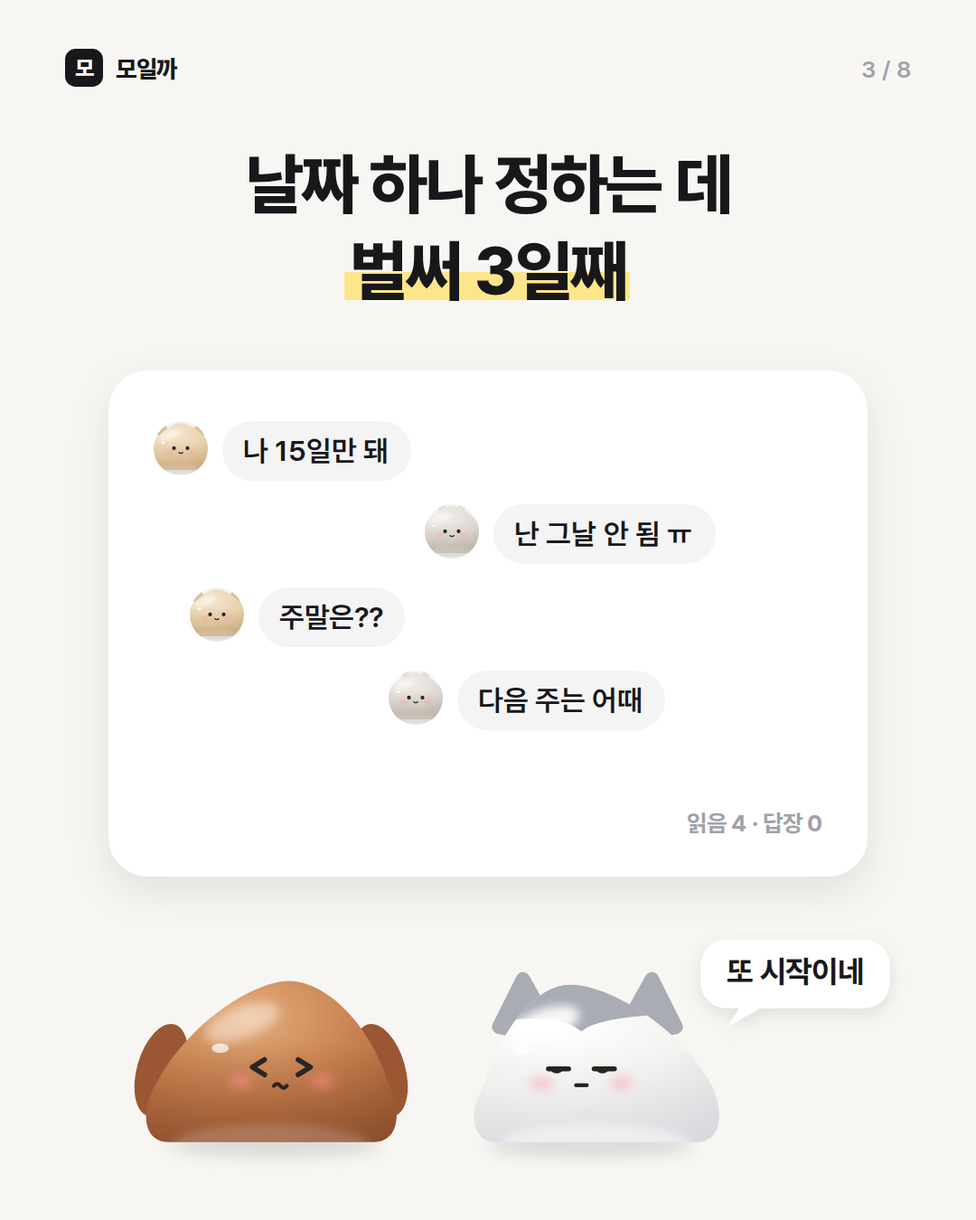
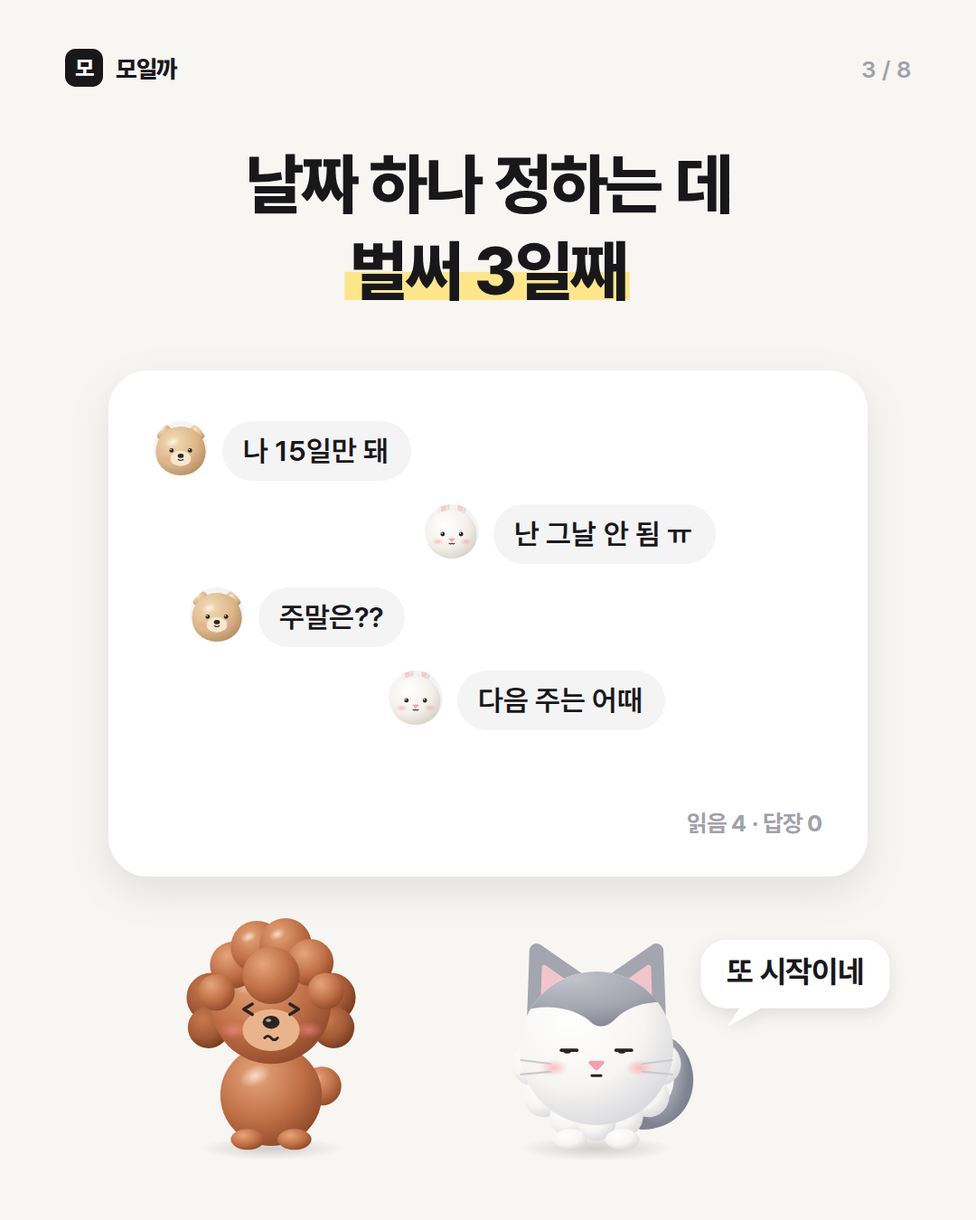
컷툰 EP.1 캐릭터 재설계 — 초코·밀크 오리지널 마스코트
레퍼런스와 겹치던 젤리 블롭 대신, 실제 초코(곱슬 방울 토이푸들)와
밀크(회색 모자 털뭉치 고양이)를 닮은 입체 봉제인형 마스코트로 교체한다.

Claude-Session: https://claude.ai/code/session_01CKkU2Ec6NKqxHL39zMMfNL

diff --git a/scripts/promo/cuttoon/chars.js b/scripts/promo/cuttoon/chars.js
@@ -1,85 +1,130 @@
-// 초코·밀크 젤리 캐릭터 — 말랑한 블롭 + 부드러운 입체 음영 + 반사광, 얼굴은 점 눈만.
-// jelly(kind, { face, w, h, lean, squash }) → 원점(0,0) = 바닥 가운데. 대략 폭 300 × 높이 200.
+// 초코·밀크 마스코트 — 우리 집 실제 아이들을 닮은 동물 캐릭터.
+//   초코: 곱슬 털방울이 모인 폼폼 토이푸들 (레드브라운)
+//   밀크: 동그란 털뭉치 고양이 (흰색 + 머리 위 회색 모자 무늬)
+// 각 방울을 입체 그라데이션 구로 칠해 말랑한 봉제인형 느낌을 낸다.
+// mascot(kind, { face, tilt, pose }) → 원점(0,0) = 바닥 가운데. 높이 약 320.
+// kind: choco | milk | kong(곰) | dubu(토끼)
 (function () {
-  let UID = 0;
-  const PAL = {
-    choco: { top: '#e6ad7c', mid: '#c27a4a', deep: '#8a4d2b', ear: '#9b5733', blush: '#ff8f8f' },
-    oat: { top: '#f5e7cf', mid: '#e6cfa9', deep: '#c3a175', ear: '#d9bd93', blush: '#ff9f9f' },
-    almond: { top: '#f1eeea', mid: '#dcd7cf', deep: '#b2aa9e', ear: '#e4dfd7', blush: '#ffa3a3' },
-    milk: { top: '#ffffff', mid: '#f4f3f1', deep: '#d9d8dd', cap: '#a9abb5', capDeep: '#8c8e99', ear: '#a9abb5', blush: '#ffa3b1' },
-  };
   const INK = '#2b2522';
-
-  // 비대칭 젤리 실루엣 (바닥은 살짝 둥글게)
-  function blobPath(w, h, lean) {
-    const px = lean * w * 0.24;
-    return `M${-w * 0.42} 2 C${-w * 0.53} 2 ${-w * 0.535} ${-h * 0.2} ${-w * 0.47} ${-h * 0.36} ` +
-      `C${-w * 0.36 + px * 0.3} ${-h * 0.74} ${-w * 0.14 + px} ${-h} ${px} ${-h} ` +
-      `C${w * 0.15 + px} ${-h} ${w * 0.38 + px * 0.3} ${-h * 0.74} ${w * 0.48} ${-h * 0.36} ` +
-      `C${w * 0.535} ${-h * 0.2} ${w * 0.53} 2 ${w * 0.42} 2Z`;
+  const PAL = {
+    choco: { hi: '#e7a57a', mid: '#bf6f45', lo: '#8a4527', ear: ['#c77a50', '#a35a36', '#6f3519'], muzzle: '#e9b48c' },
+    milk: { hi: '#ffffff', mid: '#f6f5f2', lo: '#d6d5da', cap: ['#c2c4cc', '#a3a5af', '#7f8290'] },
+    kong: { hi: '#f4dcb6', mid: '#dcb88a', lo: '#b08a5c', muzzle: '#f6e7cf' },
+    dubu: { hi: '#ffffff', mid: '#f4f1ec', lo: '#d3cdc4', inner: '#f8c9cf' },
+  };
+  // 공용 그라데이션 (objectBoundingBox 라서 어떤 원에도 재사용)
+  let defsDone = false;
+  function defs() {
+    if (defsDone) return '';
+    defsDone = true;
+    const rg = (id, [hi, mid, lo]) => `<radialGradient id="${id}" cx=".36" cy=".3" r=".78"><stop offset="0" stop-color="${hi}"/><stop offset=".58" stop-color="${mid}"/><stop offset="1" stop-color="${lo}"/></radialGradient>`;
+    return `<defs>
+      ${rg('gChoco', [PAL.choco.hi, PAL.choco.mid, PAL.choco.lo])}
+      ${rg('gChocoEar', PAL.choco.ear)}
+      ${rg('gMilk', [PAL.milk.hi, PAL.milk.mid, PAL.milk.lo])}
+      ${rg('gMilkCap', PAL.milk.cap)}
+      ${rg('gKong', [PAL.kong.hi, PAL.kong.mid, PAL.kong.lo])}
+      ${rg('gDubu', [PAL.dubu.hi, PAL.dubu.mid, PAL.dubu.lo])}
+      <radialGradient id="gGloss" cx=".5" cy=".5" r=".5"><stop offset="0" stop-color="#fff" stop-opacity=".6"/><stop offset="1" stop-color="#fff" stop-opacity="0"/></radialGradient>
+      <radialGradient id="gShadow" cx=".5" cy=".5" r=".5"><stop offset="0" stop-color="#000" stop-opacity=".16"/><stop offset="1" stop-color="#000" stop-opacity="0"/></radialGradient>
+      <radialGradient id="gBlush" cx=".5" cy=".5" r=".5"><stop offset="0" stop-color="#ff8f9c" stop-opacity=".55"/><stop offset="1" stop-color="#ff8f9c" stop-opacity="0"/></radialGradient>
+    </defs>`;
   }
+  window.mascotDefs = () => { defsDone = false; return defs(); };
 
-  function face(type, cx, cy, s) {
-    const e = 25 * s, k = INK, sw = 5.5 * s;
-    const eye = (x, sd) => {
+  const ball = (x, y, r, g, gloss = true) =>
+    `<circle cx="${x}" cy="${y}" r="${r}" fill="url(#${g})"/>` + (gloss ? `<ellipse cx="${x - r * 0.32}" cy="${y - r * 0.38}" rx="${r * 0.32}" ry="${r * 0.2}" transform="rotate(-25 ${x - r * 0.32} ${y - r * 0.38})" fill="url(#gGloss)"/>` : '');
+  const oval = (x, y, rx, ry, rot, g) => `<ellipse cx="${x}" cy="${y}" rx="${rx}" ry="${ry}" transform="rotate(${rot} ${x} ${y})" fill="url(#${g})"/>`;
+  const shadow = (rx) => `<ellipse cx="0" cy="4" rx="${rx}" ry="${rx * 0.16}" fill="url(#gShadow)"/>`;
+  const blush = (x, y) => `<ellipse cx="${x}" cy="${y}" rx="22" ry="13" fill="url(#gBlush)"/>`;
+
+  function eyes(type, ex, ey) {
+    const k = INK;
+    const one = (x, sd) => {
       switch (type) {
-        case 'happy': return `<path d="M${x - 11 * s} ${cy + 3 * s} Q${x} ${cy - 10 * s} ${x + 11 * s} ${cy + 3 * s}" fill="none" stroke="${k}" stroke-width="${sw}" stroke-linecap="round"/>`;
-        case 'sleepy': return `<path d="M${x - 11 * s} ${cy - 2 * s} Q${x} ${cy + 8 * s} ${x + 11 * s} ${cy - 2 * s}" fill="none" stroke="${k}" stroke-width="${sw}" stroke-linecap="round"/>`;
-        case 'flat': return `<path d="M${x - 10 * s} ${cy} H${x + 10 * s}" stroke="${k}" stroke-width="${sw}" stroke-linecap="round"/>`;
-        case 'squint': return `<path d="M${x - 7 * sd * s} ${cy - 8 * s} L${x + 6 * sd * s} ${cy} L${x - 7 * sd * s} ${cy + 8 * s}" fill="none" stroke="${k}" stroke-width="${sw}" stroke-linecap="round" stroke-linejoin="round"/>`;
-        case 'side': return `<path d="M${x - 11 * s} ${cy} H${x + 11 * s}" stroke="${k}" stroke-width="${sw}" stroke-linecap="round"/><path d="M${x - 9 * s} ${cy + 1} A${8 * s} ${8 * s} 0 0 0 ${x + 5 * s} ${cy + 1}Z" fill="${k}"/>`;
-        case 'wow': return `<circle cx="${x}" cy="${cy}" r="${8.5 * s}" fill="${k}"/><circle cx="${x - 3 * s}" cy="${cy - 3.5 * s}" r="${3 * s}" fill="#fff"/>`;
-        default: return `<circle cx="${x}" cy="${cy}" r="${7 * s}" fill="${k}"/>`;
+        case 'happy': return `<path d="M${x - 11} ${ey + 4} Q${x} ${ey - 10} ${x + 11} ${ey + 4}" fill="none" stroke="${k}" stroke-width="5.5" stroke-linecap="round"/>`;
+        case 'sleepy': return `<path d="M${x - 11} ${ey - 2} Q${x} ${ey + 8} ${x + 11} ${ey - 2}" fill="none" stroke="${k}" stroke-width="5" stroke-linecap="round"/>`;
+        case 'flat': return `<path d="M${x - 10} ${ey} H${x + 10}" stroke="${k}" stroke-width="5.5" stroke-linecap="round"/>`;
+        case 'squint': return `<path d="M${x - 7 * sd} ${ey - 8} L${x + 6 * sd} ${ey} L${x - 7 * sd} ${ey + 8}" fill="none" stroke="${k}" stroke-width="5" stroke-linecap="round" stroke-linejoin="round"/>`;
+        case 'side': return `<path d="M${x - 12} ${ey - 1} H${x + 12}" stroke="${k}" stroke-width="5" stroke-linecap="round"/><path d="M${x - 10} ${ey} A8 8 0 0 0 ${x + 4} ${ey}Z" fill="${k}"/>`;
+        case 'wow': return `<circle cx="${x}" cy="${ey}" r="9.5" fill="${k}"/><circle cx="${x - 3}" cy="${ey - 4}" r="3.4" fill="#fff"/>`;
+        default: return `<circle cx="${x}" cy="${ey}" r="8" fill="${k}"/><circle cx="${x - 2.5}" cy="${ey - 3}" r="2.6" fill="#fff"/>`;
       }
     };
-    let m = '';
-    if (type === 'happy' || type === 'wow') m = `<path d="M${cx - 9 * s} ${cy + 16 * s} Q${cx} ${cy + 26 * s} ${cx + 9 * s} ${cy + 16 * s}" fill="none" stroke="${k}" stroke-width="${4.5 * s}" stroke-linecap="round"/>`;
-    else if (type === 'squint') m = `<path d="M${cx - 8 * s} ${cy + 20 * s} q4 -5 8 0 t8 0" fill="none" stroke="${k}" stroke-width="${4 * s}" stroke-linecap="round"/>`;
-    else if (type === 'side' || type === 'flat') m = `<path d="M${cx - 6 * s} ${cy + 18 * s} H${cx + 6 * s}" stroke="${k}" stroke-width="${4 * s}" stroke-linecap="round"/>`;
-    else m = `<path d="M${cx - 7 * s} ${cy + 16 * s} Q${cx} ${cy + 22 * s} ${cx + 7 * s} ${cy + 16 * s}" fill="none" stroke="${k}" stroke-width="${4.5 * s}" stroke-linecap="round"/>`;
-    return eye(cx - e, -1) + eye(cx + e, 1) + m;
+    return one(-ex, -1) + one(ex, 1);
   }
 
-  function jelly(kind, o = {}) {
-    const p = PAL[kind], id = 'j' + (UID++);
-    const w = o.w ?? 300, h = o.h ?? 196, lean = o.lean ?? 0, sq = o.squash ?? 1;
-    const W = w * (2 - sq), Hh = h * sq;
-    const d = blobPath(W, Hh, lean);
-    const fx = lean * W * 0.14, fy = -Hh * 0.46; // 얼굴 위치
-    let s = `<defs>
-      <radialGradient id="${id}b" cx="${0.38 + lean * 0.08}" cy="0.22" r="0.95"><stop offset="0" stop-color="${p.top}"/><stop offset="0.55" stop-color="${p.mid}"/><stop offset="1" stop-color="${p.deep}"/></radialGradient>
-      <radialGradient id="${id}r" cx="0.5" cy="1.05" r="0.7"><stop offset="0" stop-color="${p.deep}" stop-opacity=".55"/><stop offset="1" stop-color="${p.deep}" stop-opacity="0"/></radialGradient>
-      <filter id="${id}f" x="-50%" y="-50%" width="200%" height="200%"><feGaussianBlur stdDeviation="${6}"/></filter>
-      <filter id="${id}s" x="-50%" y="-50%" width="200%" height="200%"><feGaussianBlur stdDeviation="10"/></filter>
-      <clipPath id="${id}c"><path d="${d}"/></clipPath>
-    </defs>`;
-    // 바닥 그림자
-    s += `<ellipse cx="${fx * 0.4}" cy="6" rx="${W * 0.44}" ry="14" fill="#000" opacity=".12" filter="url(#${id}s)"/>`;
-    // 귀 (몸 뒤)
-    if (kind === 'choco') {
-      for (const sd of [-1, 1]) { const ex = sd * W * 0.45, ey = -Hh * 0.44; s += `<ellipse cx="${ex}" cy="${ey}" rx="${W * 0.1}" ry="${Hh * 0.3}" transform="rotate(${sd * -16} ${ex} ${ey})" fill="${p.ear}"/>`; }
-    } else if (kind === 'milk') {
-      for (const sd of [-1, 1]) { const ex = fx * 0.6 + sd * W * 0.25, ey = -Hh * 0.8; s += `<path d="M${ex - sd * 34} ${ey + 26} L${ex + sd * 6} ${ey - 46} L${ex + sd * 36} ${ey + 14}Z" fill="${p.ear}" stroke="${p.ear}" stroke-width="18" stroke-linejoin="round"/>`; }
-    } else if (kind === 'oat') {
-      for (const sd of [-1, 1]) s += `<circle cx="${fx * 0.6 + sd * W * 0.27}" cy="${-Hh * 0.84}" r="${W * 0.085}" fill="${p.ear}"/>`;
-    } else if (kind === 'almond') {
-      for (const sd of [-1, 1]) { const ex = fx * 0.6 + sd * W * 0.12; s += `<rect x="${ex - W * 0.05}" y="${-Hh * 1.42}" width="${W * 0.1}" height="${Hh * 0.7}" rx="${W * 0.05}" fill="${p.ear}" transform="rotate(${sd * 10} ${ex} ${-Hh * 0.8})"/>`; }
-    }
-    // 몸
-    s += `<path d="${d}" fill="url(#${id}b)"/>`;
-    s += `<g clip-path="url(#${id}c)">`;
-    if (kind === 'milk') s += `<path d="M${-W} ${-Hh - 40} H${W} V${-Hh * 0.8} C${W * 0.25} ${-Hh * 0.84} ${fx + W * 0.08} ${-Hh * 0.8} ${fx} ${-Hh * 0.7} C${fx - W * 0.1} ${-Hh * 0.82} ${-W * 0.3} ${-Hh * 0.82} ${-W} ${-Hh * 0.62}Z" fill="${p.cap}"/>`;
+  // 작은 발 (몸 앞)
+  const feet = (g, dx = 34) => oval(-dx, -10, 26, 16, 0, g) + oval(dx, -10, 26, 16, 0, g);
 
-    s += `<rect x="${-W}" y="${-Hh}" width="${W * 2}" height="${Hh + 10}" fill="url(#${id}r)"/>`;
-    s += `<ellipse cx="0" cy="4" rx="${W * 0.4}" ry="${Hh * 0.12}" fill="#fff" opacity="${kind === 'milk' ? 0.5 : 0.18}" filter="url(#${id}f)"/>`;
-    s += `<ellipse cx="${fx - W * 0.16}" cy="${-Hh * 0.74}" rx="${W * 0.16}" ry="${Hh * 0.1}" transform="rotate(-20 ${fx - W * 0.16} ${-Hh * 0.74})" fill="#fff" opacity="${kind === 'milk' ? 0.9 : 0.42}" filter="url(#${id}f)"/>`;
-    s += `<ellipse cx="${fx - W * 0.25}" cy="${-Hh * 0.58}" rx="${W * 0.035}" ry="${Hh * 0.03}" fill="#fff" opacity=".7"/>`;
-    s += `</g>`;
-    // 볼터치 + 얼굴
-    s += `<ellipse cx="${fx - 50}" cy="${fy + 18}" rx="15" ry="9" fill="${p.blush}" opacity=".5" filter="url(#${id}f)"/><ellipse cx="${fx + 50}" cy="${fy + 18}" rx="15" ry="9" fill="${p.blush}" opacity=".5" filter="url(#${id}f)"/>`;
-    s += face(o.face ?? 'dot', fx, fy, o.faceScale ?? 1.15);
-    if (kind === 'choco' && o.tongue) s += `<rect x="${fx - 6}" y="${fy + 22}" width="12" height="16" rx="6" fill="#ef8a9b"/>`;
+  // ---------------- 초코 ----------------
+  function choco(o = {}) {
+    const f = o.face ?? 'dot';
+    let s = shadow(110);
+    s += ball(78, -92, 30, 'gChoco');                         // 꼬리 방울
+    s += ball(0, -78, 78, 'gChoco');                          // 몸
+    s += feet('gChoco', 36);
+    let h = '';
+    // 귀 — 늘어진 곱슬 방울 2단
+    for (const sd of [-1, 1]) h += ball(sd * 92, -10, 38, 'gChocoEar', false) + ball(sd * 96, 36, 32, 'gChocoEar', false);
+    // 머리 + 곱슬 톱노트(방울 묶음)
+    h += ball(0, 0, 92, 'gChoco');
+    [[-58, -60, 36], [-22, -88, 40], [22, -92, 40], [60, -64, 36], [-84, -18, 28], [84, -20, 28]].forEach(([x, y, r], i) => { h += ball(x, y, r, 'gChoco', i === 1 || i === 2); });
+    h += ball(0, -44, 44, 'gChoco', false);
+    // 얼굴
+    h += `<ellipse cx="0" cy="40" rx="44" ry="32" fill="${PAL.choco.muzzle}"/>`;
+    h += blush(-58, 40) + blush(58, 40);
+    h += eyes(f, 36, 8);
+    h += `<ellipse cx="0" cy="28" rx="13" ry="10" fill="${INK}"/><ellipse cx="-4" cy="25" rx="4" ry="2.5" fill="#fff" opacity=".6"/>`;
+    if (f === 'squint') h += `<path d="M-10 52 q5 -6 10 0 t10 0" fill="none" stroke="${INK}" stroke-width="4" stroke-linecap="round"/>`;
+    else if (f === 'flat' || f === 'side') h += `<path d="M-7 50 H7" stroke="${INK}" stroke-width="4" stroke-linecap="round"/>`;
+    else h += `<path d="M-12 46 Q-6 52 0 46 Q6 52 12 46" fill="none" stroke="${INK}" stroke-width="4" stroke-linecap="round"/>` + (o.tongue !== false ? `<rect x="-7" y="49" width="14" height="18" rx="7" fill="#ef8a9b"/>` : '');
+    s += `<g transform="translate(0 -218)${o.tilt ? ` rotate(${o.tilt})` : ''}">${h}</g>`;
+    if (o.pose === 'cheer') s += ball(-104, -226, 26, 'gChoco') + ball(104, -226, 26, 'gChoco');
     return s;
   }
-  window.jelly = jelly;
+
+  // ---------------- 밀크 ----------------
+  function milk(o = {}) {
+    const f = o.face ?? 'side';
+    let s = shadow(118);
+    s += `<path d="M70 -40 C140 -40 150 -120 112 -150" fill="none" stroke="url(#gMilkCap)" stroke-width="30" stroke-linecap="round"/>`;
+    let h = '';
+    for (const sd of [-1, 1]) h += `<path d="M${sd * 96} -40 L${sd * 92} -150 L${sd * 26} -104Z" fill="url(#gMilkCap)" stroke="${PAL.milk.cap[1]}" stroke-width="22" stroke-linejoin="round"/><path d="M${sd * 82} -60 L${sd * 80} -124 L${sd * 46} -100Z" fill="#f2c5cd" stroke="#f2c5cd" stroke-width="8" stroke-linejoin="round"/>`;
+    // 털뭉치 몸통 = 큰 공 + 가장자리 보송한 방울
+    [[-96, 24, 34], [96, 24, 34], [-80, 74, 32], [80, 74, 32], [-40, 104, 32], [40, 104, 32], [0, 112, 30]].forEach(([x, y, r]) => { h += ball(x, y, r, 'gMilk', false); });
+    h += ball(0, 0, 118, 'gMilk');
+    // 회색 모자 무늬 (머리 위)
+    const id = 'mcap' + Math.random().toString(36).slice(2, 7);
+    h += `<clipPath id="${id}"><circle cx="0" cy="0" r="118"/></clipPath><path clip-path="url(#${id})" d="M-140 -140 H140 V-64 C96 -78 54 -70 30 -46 C18 -34 6 -30 -6 -38 C-34 -66 -96 -74 -140 -44Z" fill="url(#gMilkCap)"/>`;
+    h += blush(-66, 30) + blush(66, 30);
+    h += eyes(f, 42, 4);
+    h += `<path d="M-9 22 H9 L0 31Z" fill="#f29fb0" stroke="#f29fb0" stroke-width="6" stroke-linejoin="round"/>`;
+    if (f === 'side' || f === 'flat') h += `<path d="M-7 42 H7" stroke="${INK}" stroke-width="4" stroke-linecap="round"/>`;
+    else h += `<path d="M-13 38 Q-6 45 0 38 Q6 45 13 38" fill="none" stroke="${INK}" stroke-width="4" stroke-linecap="round"/>`;
+    for (const sd of [-1, 1]) h += `<path d="M${sd * 70} 24 l${sd * 46} -6 M${sd * 70} 36 l${sd * 46} 4" stroke="#c9c9cf" stroke-width="3" stroke-linecap="round"/>`;
+    s += `<g transform="translate(0 -150)${o.tilt ? ` rotate(${o.tilt})` : ''}">${h}</g>`;
+    s += feet('gMilk', 40);
+    if (o.pose === 'cheer') s += ball(-120, -200, 26, 'gMilk') + ball(120, -200, 26, 'gMilk');
+    return s;
+  }
+
+  // ---------------- 친구들 (아바타·조연) ----------------
+  function kong(o = {}) { // 곰
+    let h = ball(-62, -70, 30, 'gKong') + ball(62, -70, 30, 'gKong') + ball(0, 0, 92, 'gKong');
+    h += `<ellipse cx="0" cy="26" rx="38" ry="28" fill="${PAL.kong.muzzle}"/>` + blush(-52, 26) + blush(52, 26) + eyes(o.face ?? 'dot', 34, -4);
+    h += `<ellipse cx="0" cy="16" rx="11" ry="8" fill="${INK}"/><path d="M-9 30 Q0 36 9 30" fill="none" stroke="${INK}" stroke-width="4" stroke-linecap="round"/>`;
+    return shadow(90) + `<g transform="translate(0 -96)">${h}</g>`;
+  }
+  function dubu(o = {}) { // 토끼
+    let h = '';
+    for (const sd of [-1, 1]) h += oval(sd * 34, -120, 24, 62, sd * 8, 'gDubu') + `<ellipse cx="${sd * 34}" cy="-116" rx="11" ry="40" transform="rotate(${sd * 8} ${sd * 34} -116)" fill="${PAL.dubu.inner}"/>`;
+    h += ball(0, 0, 92, 'gDubu') + blush(-52, 26) + blush(52, 26) + eyes(o.face ?? 'dot', 34, -2);
+    h += `<path d="M-8 16 H8 L0 24Z" fill="#f29fb0" stroke="#f29fb0" stroke-width="5" stroke-linejoin="round"/><path d="M-10 32 Q-5 37 0 32 Q5 37 10 32" fill="none" stroke="${INK}" stroke-width="3.5" stroke-linecap="round"/>`;
+    return shadow(90) + `<g transform="translate(0 -96)">${h}</g>`;
+  }
+
+  window.mascot = (kind, o = {}) => defs() + ({ choco, milk, kong, dubu })[kind](o);
+  // 아바타용: 얼굴 중심이 대략 (0, -Y) 에 오도록 하는 오프셋
+  window.mascotFaceY = { choco: -230, milk: -150, kong: -96, dubu: -96 };
 })();

diff --git a/scripts/promo/cuttoon/cuttoon.html b/scripts/promo/cuttoon/cuttoon.html
@@ -67,17 +67,17 @@ function pill(y, str) {
   return `<rect x="${W / 2 - w / 2}" y="${y}" width="${w}" height="64" rx="32" fill="${C.ink}"/>` + T(W / 2, y + 43, str, { size: 30, weight: 800, fill: C.a300, anchor: 'middle' });
 }
 function chrome(n) {
-  return `<rect width="${W}" height="${H}" fill="${C.bg}"/>` + DEFS + mark(M, 54, 42) + T(M + 56, 86, '모일까', { size: 27, weight: 800 }) +
+  return `<rect width="${W}" height="${H}" fill="${C.bg}"/>` + DEFS + mascotDefs() + mark(M, 54, 42) + T(M + 56, 86, '모일까', { size: 27, weight: 800 }) +
     T(W - M, 86, `${n} / 8`, { size: 26, weight: 600, fill: C.z400, anchor: 'end', ls: 0.5 });
 }
 const card = (x, y, w, h, inner = '') => `<rect x="${x}" y="${y}" width="${w}" height="${h}" rx="44" fill="${C.white}" filter="url(#sh)"/>` + inner;
 
 // ---------- 젤리 아바타 / 채팅 ----------
-const WHO = { choco: ['choco', '초코'], milk: ['milk', '밀크'], kong: ['oat', '콩이'], dubu: ['almond', '두부'] };
+const WHO = { choco: ['choco', '초코'], milk: ['milk', '밀크'], kong: ['kong', '콩이'], dubu: ['dubu', '두부'] };
 function avatar(who, cx, cy, r, face = 'dot') {
   const id = 'av' + Math.random().toString(36).slice(2, 8);
   return `<clipPath id="${id}"><circle cx="${cx}" cy="${cy}" r="${r}"/></clipPath><circle cx="${cx}" cy="${cy}" r="${r}" fill="${C.z100}"/>` +
-    `<g clip-path="url(#${id})">${place(cx, cy + r * 0.78, r / 115, jelly(WHO[who][0], { face }))}</g>`;
+    `<g clip-path="url(#${id})">${place(cx, cy - mascotFaceY[who] * (r / 100) + r * 0.12, r / 100, mascot(WHO[who][0], { face }))}</g>`;
 }
 function msgL(x, y, who, text, { size = 32, name = true, fill = C.z100 } = {}) {
   const r = 30, bx = x + r * 2 + 16;
@@ -107,8 +107,8 @@ S.push(() => {
   s += sub(500, '단톡방에서 날짜 맞추다 지친 우리 얘기');
   // 바닥 무대
   s += `<ellipse cx="${W / 2}" cy="1170" rx="480" ry="84" fill="#efece6"/>`;
-  s += place(318, 1160, 1.42, jelly('choco', { face: 'dot', lean: 0.45, tongue: true }));
-  s += place(775, 1170, 1.32, jelly('milk', { face: 'side', lean: -0.5 }));
+  s += place(318, 1160, 0.966, mascot('choco', { face: 'dot', tongue: true }));
+  s += place(775, 1170, 0.898, mascot('milk', { face: 'side' }));
   s += say(300, 650, ['언제 볼래?'], 'dr') + say(800, 680, ['다음에 보자~'], 'dl');
   s += T(W / 2, 1290, '옆으로 넘겨 보기 →', { size: 28, weight: 600, fill: C.z400, anchor: 'middle' });
   return s;
@@ -127,7 +127,7 @@ S.push(() => {
   in_ += sysPill(x + w / 2, yy, '3주 후');
   in_ += T(x + w / 2, yy + 140, '· · ·', { size: 44, weight: 800, fill: C.z300, anchor: 'middle', ls: 6 });
   s += card(x, y, w, h, in_);
-  s += place(800, 1262, 0.9, jelly('choco', { face: 'flat', lean: -0.4 }));
+  s += place(800, 1268, 0.72, mascot('choco', { face: 'flat' }));
   s += say(560, 1110, ['…?'], 'dr');
   return s;
 });
@@ -141,8 +141,8 @@ S.push(() => {
   [['kong', '나 15일만 돼', 0], ['dubu', '난 그날 안 됨 ㅠ', 300], ['kong', '주말은??', 40], ['dubu', '다음 주는 어때', 260]].forEach(([who, t, dx]) => { const r = msgL(x + 50 + dx, yy, who, t, { name: false }); in_ += r.svg; yy += r.h + 26; });
   in_ += T(x + w - 50, y + h - 50, '읽음 4 · 답장 0', { size: 26, weight: 700, fill: C.z400, anchor: 'end' });
   s += card(x, y, w, h, in_);
-  s += place(300, 1262, 0.9, jelly('choco', { face: 'squint', lean: 0.3 }));
-  s += place(660, 1262, 0.88, jelly('milk', { face: 'side', lean: -0.45 }));
+  s += place(300, 1268, 0.72, mascot('choco', { face: 'squint' }));
+  s += place(660, 1268, 0.72, mascot('milk', { face: 'side' }));
   s += say(880, 1040, ['또 시작이네'], 'dl');
   return s;
 });
@@ -156,9 +156,9 @@ S.push(() => {
   const mw = 120, gap = 26, tx = tw('모일까', 96, 800), tot = mw + gap + tx, x0 = W / 2 - tot / 2;
   s += card(150, 590, 780, 260, mark(x0, 660, mw) + T(x0 + mw + gap, 660 + mw * 0.79, '모일까', { size: 96, weight: 800, ls: -2 }));
   s += `<ellipse cx="${W / 2}" cy="1180" rx="420" ry="70" fill="#efece6"/>`;
-  s += place(350, 1170, 1.08, jelly('choco', { face: 'happy', lean: 0.4, tongue: true }));
-  s += place(750, 1176, 1.0, jelly('milk', { face: 'wow', lean: -0.4 }));
-  s += say(250, 930, ['이거다!'], 'dr');
+  s += place(360, 1172, 0.86, mascot('choco', { face: 'happy', tongue: true }));
+  s += place(740, 1178, 0.84, mascot('milk', { face: 'wow' }));
+  s += say(170, 880, ['이거다!'], 'dr');
   return s;
 });
 
@@ -180,7 +180,7 @@ S.push(() => {
     in_ += T(cx, cy, String(d), { size: 27, weight: sel.has(d) ? 800 : 600, fill: sel.has(d) ? C.white : C.z700, anchor: 'middle', ls: 0 });
   }
   s += card(x, y, w, h, in_);
-  s += place(830, 1270, 0.8, jelly('choco', { face: 'happy', lean: -0.5, tongue: true }));
+  s += place(830, 1270, 0.544, mascot('choco', { face: 'happy', tongue: true }));
   s += say(520, 1150, ['닉네임만 쓰면 끝!'], 'dr');
   return s;
 });
@@ -202,7 +202,7 @@ S.push(() => {
   let r = msgL(x + 44, yy, 'kong', '오 편하다'); in_ += r.svg; yy += r.h + 22;
   r = msgL(x + 44, yy, 'dubu', '체크 완료!'); in_ += r.svg;
   s += card(x, y, w, h, in_);
-  s += place(830, 1270, 0.78, jelly('milk', { face: 'side', lean: -0.5 }));
+  s += place(830, 1270, 0.53, mascot('milk', { face: 'side' }));
   s += say(520, 1150, ['(몰래) 나도 체크함'], 'dr', { size: 30 });
   return s;
 });
@@ -226,7 +226,7 @@ S.push(() => {
     in_ += `<rect x="${x0}" y="${ry + 66}" width="${x1 - x0}" height="16" rx="8" fill="${C.z100}"/><rect x="${x0}" y="${ry + 66}" width="${(x1 - x0) * n / 4}" height="16" rx="8" fill="${first ? C.a300 : C.z300}"/>`;
   });
   s += card(x, y, w, h, in_);
-  s += place(250, 1270, 0.78, jelly('milk', { face: 'side', lean: 0.5 }));
+  s += place(250, 1270, 0.53, mascot('milk', { face: 'side' }));
   s += say(560, 1150, ['…좋아. 그날 간다.'], 'dl', { size: 30 });
   return s;
 });
@@ -238,10 +238,10 @@ S.push(() => {
   s += headline(['링크 하나로', '[1분 컷]'], 340);
   s += sub(500, '가입 없음 · 닉네임만 · 무료');
   s += `<ellipse cx="${W / 2}" cy="1010" rx="470" ry="80" fill="#efece6"/>`;
-  s += place(170, 990, 0.62, jelly('oat', { face: 'happy', lean: 0.3 }));
-  s += place(400, 1004, 0.96, jelly('choco', { face: 'happy', lean: 0.35, tongue: true }));
-  s += place(700, 1008, 0.92, jelly('milk', { face: 'happy', lean: -0.35 }));
-  s += place(920, 992, 0.6, jelly('almond', { face: 'wow', lean: -0.3 }));
+  s += place(175, 996, 0.56, mascot('kong', { face: 'happy' }));
+  s += place(400, 1004, 0.68, mascot('choco', { face: 'happy', tongue: true, pose: 'cheer' }));
+  s += place(690, 1008, 0.66, mascot('milk', { face: 'happy', pose: 'cheer' }));
+  s += place(915, 996, 0.56, mascot('dubu', { face: 'wow' }));
   s += say(W / 2, 640, ['드디어 만났다!'], 'down', { size: 38 });
   const uw = tw('moilga.com', 46, 800) + 120;
   s += `<rect x="${W / 2 - uw / 2}" y="1120" width="${uw}" height="104" rx="52" fill="${C.ink}"/>` + T(W / 2, 1189, 'moilga.com', { size: 46, weight: 800, fill: C.white, anchor: 'middle', ls: 0 });

diff --git a/scripts/promo/cuttoon/dev/sheet.html b/scripts/promo/cuttoon/dev/sheet.html
@@ -1,13 +1,12 @@
-<!doctype html><html><head><meta charset="utf-8"><style>
-@font-face { font-family: P; font-weight: 800; src: url(../fonts/Pretendard-ExtraBold.woff2); }
-body{margin:0;background:#fafaf9}</style><script src="../chars.js"></script></head><body>
-<svg id="s" width="1400" height="760" viewBox="0 0 1400 760" xmlns="http://www.w3.org/2000/svg"></svg>
+<!doctype html><html><head><meta charset="utf-8"><style>body{margin:0;background:#f7f6f3}</style><script src="../chars.js"></script></head><body>
+<svg id="s" width="1400" height="900" viewBox="0 0 1400 900" xmlns="http://www.w3.org/2000/svg"></svg>
 <script>
 const g = (x, y, s, inner) => `<g transform="translate(${x} ${y}) scale(${s})">${inner}</g>`;
-let out = `<rect width="1400" height="760" fill="#f4f3f0"/>`;
+let out = `<rect width="1400" height="900" fill="#f7f6f3"/>` + mascotDefs();
 const faces = ['dot', 'happy', 'side', 'squint', 'wow', 'sleepy'];
-faces.forEach((f, i) => out += g(130 + i * 228, 330, 0.62, jelly('choco', { face: f, lean: [-0.6,0.5,-0.3,0.7,0,-0.5][i], tongue: f === 'happy' })));
-faces.forEach((f, i) => out += g(130 + i * 228, 680, 0.62, jelly('milk', { face: f, lean: [0.6,-0.5,0.4,-0.7,0,0.5][i] })));
+faces.forEach((f, i) => out += g(120 + i * 232, 400, 0.62, mascot('choco', { face: f, tongue: f === 'happy' || f === 'dot', pose: i === 4 ? 'cheer' : '' })));
+faces.forEach((f, i) => out += g(120 + i * 232, 760, 0.62, mascot('milk', { face: f, pose: i === 4 ? 'cheer' : '' })));
+out += g(1310, 140, 0.5, mascot('kong', { face: 'happy' })) + g(1310, 860, 0.5, mascot('dubu', {}));
 document.getElementById('s').innerHTML = out;
 window.READY = true;
 </script></body></html>

diff --git a/scripts/promo/cuttoon/README.md b/scripts/promo/cuttoon/README.md
@@ -12,8 +12,8 @@ node render.mjs 3 5      # 03.png, 05.png 만 다시 찍고 preview 갱신
 
 - 필요: Playwright + Chromium. 로컬에 없으면 전역 설치본(`npm root -g`)을 쓴다.
 - 폰트: `fonts/` 의 Pretendard woff2 (Medium/SemiBold/Bold/ExtraBold) — git 에 없음. `cp -r ../fonts .` (상위 `scripts/promo/render.mjs` 가 처음 실행될 때 npm 에서 받아 온다).
-- 원본: `cuttoon.html`(슬라이드·레이아웃·앱 UI 카드) + `chars.js`(젤리 캐릭터 `jelly(kind, {face, lean, squash})` — choco·milk·oat·almond, 표정 dot/happy/side/squint/wow/sleepy/flat).
-- 아트 디렉션: 말랑한 젤리 블롭 캐릭터(부드러운 입체 음영·반사광, 점 눈) + 가운데 정렬 굵은 헤드라인 + 형광펜 강조 + 실제 앱 UI 카드.
+- 원본: `cuttoon.html`(슬라이드·레이아웃·앱 UI 카드) + `chars.js`(마스코트 `mascot(kind, {face, tongue, pose, tilt})` — choco·milk·kong·dubu, 표정 dot/happy/side/squint/wow/sleepy/flat).
+- 아트 디렉션: 실제 초코(폼폼 토이푸들)·밀크(회색 모자 털뭉치 고양이)를 닮은 입체 봉제인형 마스코트 + 가운데 정렬 굵은 헤드라인 + 형광펜 강조 + 실제 앱 UI 카드.
 - 캐릭터 시트 미리보기: `dev/sheet.html`.
 - 브라우저에서 `cuttoon.html?s=4` 로 한 장만 열어 볼 수 있다.
 
